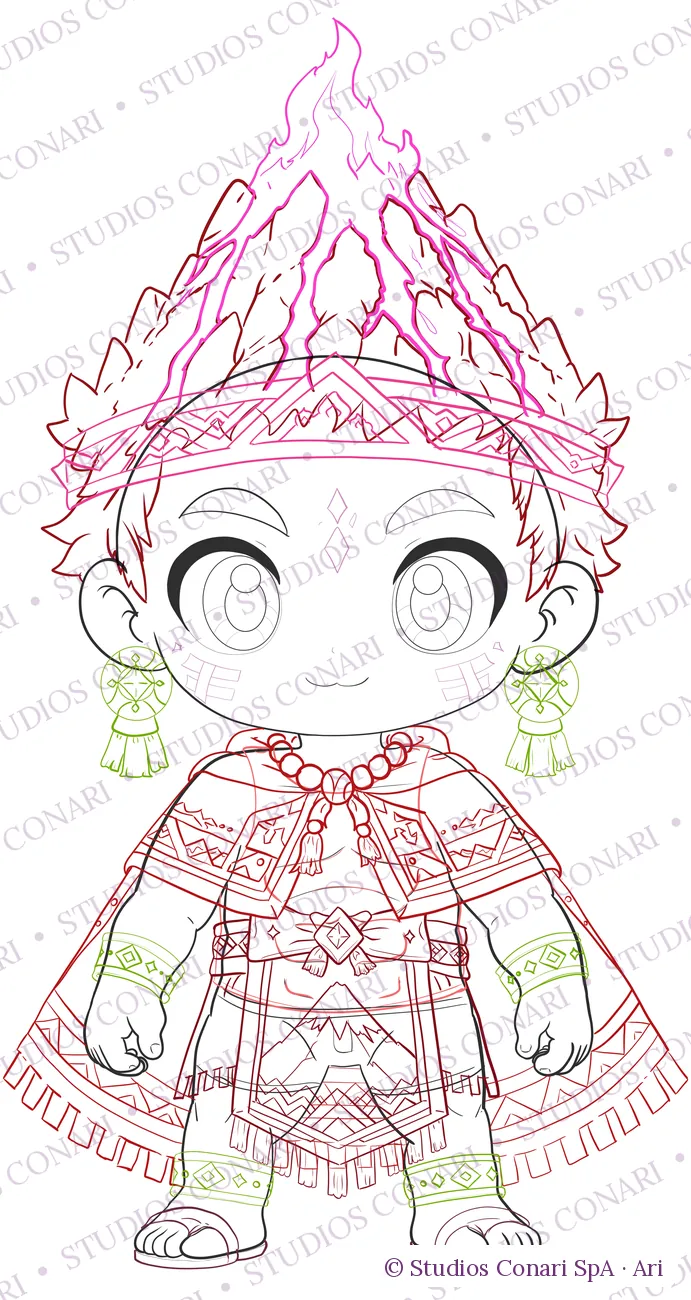
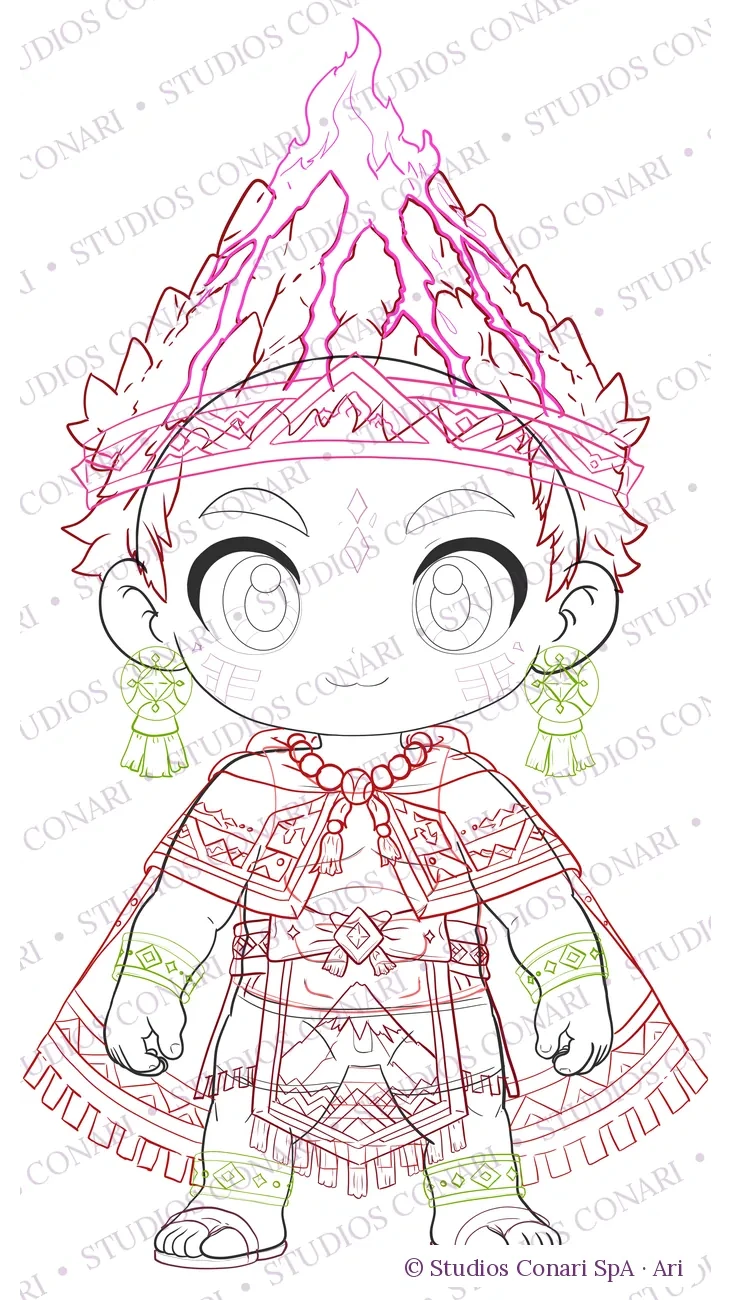
Museo: todas las ilustraciones del mismo tamaño y el marco con medida fija

diff --git a/escenas.css b/escenas.css
@@ -211,17 +211,17 @@ html.escenas .ev-leyendas .leyendas-filtros button[aria-pressed="true"] { color:
 html.escenas .ley-museo { display: grid; grid-template-columns: minmax(260px, .8fr) minmax(0, 1.5fr); gap: 22px; align-items: stretch; }
 html.escenas .ley-cuadro { margin: 0; display: grid; grid-template-rows: 1fr auto; gap: 10px; min-height: 0; }
 html.escenas .ley-marco { display: grid; place-items: center; padding: 12px; background: #fff; border-radius: 6px; box-shadow: 0 0 0 2px #e9cf8f, 0 0 0 7px #fff8ef, 0 0 0 9px #e3c37a, 0 14px 30px rgba(74, 42, 82, .22); }
-html.escenas .ley-marco img { display: block; max-width: 100%; height: min(48vh, 440px); object-fit: contain; cursor: zoom-in; user-select: none; }
+html.escenas .ley-marco img { display: block; height: min(48vh, 440px); width: auto; aspect-ratio: 731 / 1300; max-width: 100%; object-fit: contain; background: #fff; cursor: zoom-in; user-select: none; }   /* el marco mide siempre lo mismo: no cambia al elegir otra obra */
 html.escenas .ley-cuadro figcaption { display: grid; gap: 3px; justify-items: center; text-align: center; }
 html.escenas .ley-cuadro figcaption b { font: 700 1.05rem var(--titulo, "Cinzel", serif); color: #4a2a52; }
-html.escenas .ley-cuadro figcaption span { font-size: .84rem; line-height: 1.4; color: #6e5577; max-width: 420px; }
+html.escenas .ley-cuadro figcaption span { font-size: .84rem; line-height: 1.4; color: #6e5577; max-width: 420px; min-height: 2.8em; }
 html.escenas .ley-cuadro .ley-ver { margin-top: 4px; padding: 7px 12px; font-size: .72rem; width: auto; color: #6a2c55; background: #fff6fb; border: 2px solid #f0d6e8; }
 html.escenas .ley-muro { min-height: 0; max-height: calc(min(48vh, 440px) + 100px); overflow-y: auto; padding: 4px 8px 8px 4px; scrollbar-width: thin; }
 html.escenas .ley-muro .leyendas-grid { display: grid; grid-template-columns: repeat(auto-fill, minmax(104px, 1fr)); gap: 14px 12px; transform: none !important; }
 html.escenas .ley-muro .obra { display: grid; grid-template-rows: auto auto; gap: 5px; height: auto; aspect-ratio: auto; padding: 0; background: transparent; border: 0; border-radius: 0; overflow: visible; box-shadow: none; transform: none; cursor: pointer; }
 html.escenas .ley-muro .obra.fuera-hoja { display: grid; }
-html.escenas .ley-muro .obra img { width: 100%; height: auto; aspect-ratio: 3 / 4; object-fit: contain; object-position: center; padding: 5px; background: #fff; border-radius: 4px; box-shadow: 0 0 0 1px #ecd8e6, 0 4px 10px rgba(74, 42, 82, .12); transition: transform .25s, box-shadow .25s; }
-html.escenas .ley-muro .obra-horizontal img { aspect-ratio: 3 / 4; }
+html.escenas .ley-muro .obra img { width: 100%; height: auto; aspect-ratio: 731 / 1300; object-fit: contain; object-position: center; padding: 5px; background: #fff; border-radius: 4px; box-shadow: 0 0 0 1px #ecd8e6, 0 4px 10px rgba(74, 42, 82, .12); transition: transform .25s, box-shadow .25s; }
+html.escenas .ley-muro .obra-horizontal img { aspect-ratio: 731 / 1300; }
 html.escenas .ley-muro .obra:hover img { transform: translateY(-3px); box-shadow: 0 0 0 2px #e3b6d2, 0 8px 16px rgba(74, 42, 82, .18); }
 html.escenas .ley-muro .obra.elegida img { box-shadow: 0 0 0 3px #c98bb8, 0 8px 16px rgba(74, 42, 82, .2); }
 html.escenas .ley-muro .obra-nombre { position: static; padding: 0; background: none; color: #6e5577; font: 700 .68rem/1.2 var(--sans, sans-serif); letter-spacing: .02em; text-align: center; }

diff --git a/index.html b/index.html
@@ -26,7 +26,7 @@
   <link rel="stylesheet" href="tema-claro.css?v=20261016e">
   <link rel="stylesheet" href="intro.css?v=20260929f">
   <link rel="stylesheet" href="salud.css?v=20261016b">
-  <link rel="stylesheet" href="escenas.css?v=20261108l">
+  <link rel="stylesheet" href="escenas.css?v=20261020a">
   <link rel="icon" href="assets/emblema-estrella.png">
   <script>
     // modo día o noche: lo elegido antes o, si no, la preferencia del sistema
